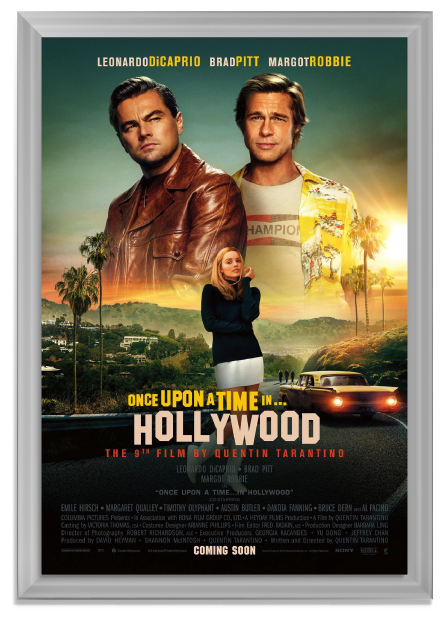
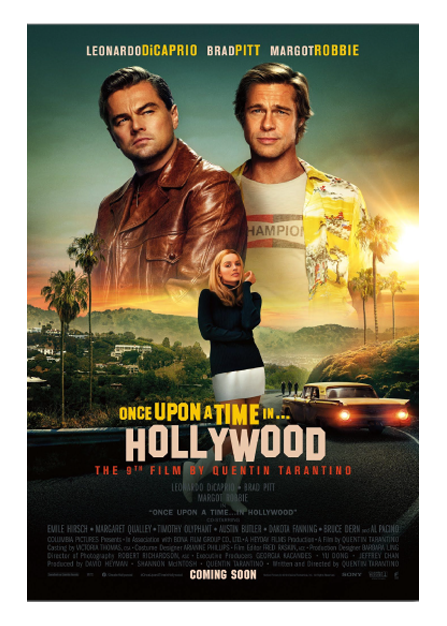
Ajustes películas index

diff --git a/Desarrollo/css/style.css b/Desarrollo/css/style.css
@@ -283,6 +283,14 @@ body{
 	margin-right:auto;
 	margin-top:50px;
 	border-radius:10px;
+	background-image:url('../img/index/marco1.png');
+	background-size:contain;
+	background-repeat:no-repeat;
+}
+.peliculas:hover{
+	background-image:url('../img/index/marco2.png');
+	background-size:contain;
+	background-repeat:no-repeat;
 }
 .peliculas img{
 	width:100%;
